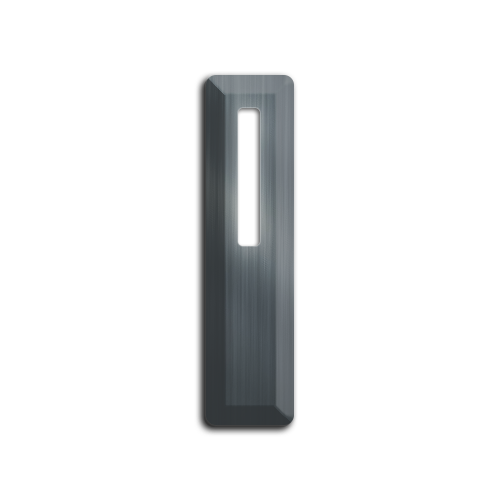
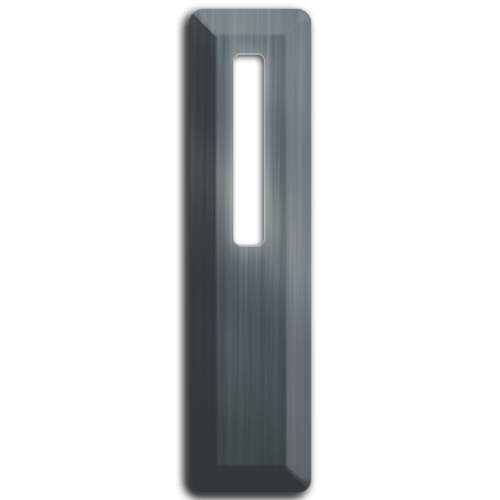
sliders UI

Changed region(s): [[0.33, 0.0, 0.63, 1.0]]

diff --git a/Equalizer/Source/PluginEditor.cpp b/Equalizer/Source/PluginEditor.cpp
@@ -9,7 +9,6 @@
 #include "PluginProcessor.h"
 #include "PluginEditor.h"
 #include "CustomLookAndFeel.h"
-#include "testLAF.h"
 
 //==============================================================================
 EqualizerAudioProcessorEditor::EqualizerAudioProcessorEditor (EqualizerAudioProcessor& p)
@@ -30,7 +29,6 @@ EqualizerAudioProcessorEditor::EqualizerAudioProcessorEditor (EqualizerAudioProc
     inputGainAtch =
         std::make_unique<juce::AudioProcessorValueTreeState::SliderAttachment>
         (audioProcessor.treeState, "input_gain", inputGainFader);
-    //Setting custom lookandfeel
     inputGainFader.setLookAndFeel(&customLookAndFeel);
 
 
@@ -46,7 +44,6 @@ EqualizerAudioProcessorEditor::EqualizerAudioProcessorEditor (EqualizerAudioProc
     outputGainAtch =
         std::make_unique<juce::AudioProcessorValueTreeState::SliderAttachment>
         (audioProcessor.treeState, "output_gain", outputGainFader);
-    //Setting custom lookandfeel
     outputGainFader.setLookAndFeel(&customLookAndFeel);
 
     /********************************************************
@@ -59,10 +56,10 @@ EqualizerAudioProcessorEditor::EqualizerAudioProcessorEditor (EqualizerAudioProc
     hipassFrequency.setTextBoxStyle(juce::Slider::TextEntryBoxPosition::NoTextBox, true, 0, 0);
     hipassFrequency.setRange(20, 20000, 1);
     hipassFrequency.setDoubleClickReturnValue(true, 20);
-    hipassFrequency.setLookAndFeel(&customLookAndFeel);
     hipassFrequencyAtch =
         std::make_unique<juce::AudioProcessorValueTreeState::SliderAttachment>
         (audioProcessor.treeState, "hipass_freq", hipassFrequency);
+    hipassFrequency.setLookAndFeel(&customLookAndFeel);
 
     /********************************************************
      *
@@ -73,7 +70,7 @@ EqualizerAudioProcessorEditor::EqualizerAudioProcessorEditor (EqualizerAudioProc
     lopassFrequency.setSliderStyle(juce::Slider::SliderStyle::RotaryVerticalDrag);
     lopassFrequency.setTextBoxStyle(juce::Slider::TextEntryBoxPosition::NoTextBox, true, 0, 0);
     lopassFrequency.setRange(20, 20000, 1);
-    lopassFrequency.setDoubleClickReturnValue(true, 20000.0);
+    lopassFrequency.setDoubleClickReturnValue(true, 20000);
     lopassFrequencyAtch =
         std::make_unique<juce::AudioProcessorValueTreeState::SliderAttachment>
         (audioProcessor.treeState, "lopass_freq", lopassFrequency);
@@ -84,26 +81,29 @@ EqualizerAudioProcessorEditor::EqualizerAudioProcessorEditor (EqualizerAudioProc
      *
      *   Adding and setting the SUB FREQUENCIES input slider
      *
-     ********************************************************
+     ********************************************************/
     addAndMakeVisible(subFrequency);
-    subFrequency.setSliderStyle(juce::Slider::SliderStyle::Rotary);
-    subFrequency.setRange(double(500), double(1000), double(10));
+    subFrequency.setSliderStyle(juce::Slider::SliderStyle::LinearVertical);
+    subFrequency.setTextBoxStyle(juce::Slider::TextEntryBoxPosition::NoTextBox, true, 0, 0);
+    subFrequency.setRange(30, 100, 20);
     subFrequency.setDoubleClickReturnValue(true, 30);
     subFrequencyAtch =
         std::make_unique<juce::AudioProcessorValueTreeState::SliderAttachment>
         (audioProcessor.treeState, "sub_freq", subFrequency);
+    //subFrequency.setLookAndFeel(&selectorLookAndFeel);
 
     addAndMakeVisible(subGain);
-    subGain.setSliderStyle(juce::Slider::SliderStyle::Rotary);
+    subGain.setSliderStyle(juce::Slider::SliderStyle::RotaryVerticalDrag);
+    subGain.setTextBoxStyle(juce::Slider::TextEntryBoxPosition::NoTextBox, true, 0, 0);
     subGain.setRange(-12, 12, 1);
     subGain.setDoubleClickReturnValue(true, 0);
     subGainAtch =
         std::make_unique<juce::AudioProcessorValueTreeState::SliderAttachment>
         (audioProcessor.treeState, "sub_gain", subGain);
-    */
+    subGain.setLookAndFeel(&customLookAndFeel);
 
     //Setting the window size
-    setSize (750 * 2, 450 * 2);
+    setSize(750 * 2, 450 * 2);
 }
 
 EqualizerAudioProcessorEditor::~EqualizerAudioProcessorEditor()
@@ -132,25 +132,18 @@ void EqualizerAudioProcessorEditor::paint (juce::Graphics& g)
 
 void EqualizerAudioProcessorEditor::resized()
 {
-    // This is generally where you'll want to lay out the positions of any
-    // subcomponents in your editor..
-
-    /*
-    POSIZIONI KNOBS
-    LOPASS 
-    
-    */;
-
     /* Dimensions variables */
     int knobWidth = 150;
     int knobHeight = 150;
     int filterKnobY = 600;
     int gainKnobY = 450;
     int spacingBKnobs = 250;
-    int lopasshipassY = 695;
-    int lopasshipassWidth = 135;
-    int lopassX = 900;
-    int hipassX = 80;
+    //lopass hipass
+    int lopasshipassY = 704;
+    int lopasshipassWidth = 109;
+    int lopassX = 910;
+    int hipassX = 90;
+    //volume faders
     int fadersWidth = 80;
     int fadersHeight = 362;
     int fadersImageOffset = 4;
@@ -158,28 +151,36 @@ void EqualizerAudioProcessorEditor::resized()
     int inputGainFaderX = 1230;
     int outputGainFaderX = 1370;
     int inoutGainFaderY = 490;
+    //knobs 
+    int lilKnobsDistance = 85;
+    //sub range
+    int subGainX = 244;
+    int subGainY = 495.5;
+    int subGainWidth = 68;
+    int subFrequencyX = 244;
+    int subFrequencyY = 623;
+    int subFrequencyWidth = 68;
 
     /* Input and output faders */
     inputGainFader.setBounds(inputGainFaderX - fadersWidth * fadersScaleFactor + fadersImageOffset, inoutGainFaderY, fadersWidth * 2, fadersHeight);
     outputGainFader.setBounds(outputGainFaderX - fadersWidth * fadersScaleFactor + fadersImageOffset, inoutGainFaderY, fadersWidth * 2, fadersHeight);
 
+    /* HiPass and LoPass filters */
     lopassFrequency.setBounds(lopassX, lopasshipassY, lopasshipassWidth, lopasshipassWidth);
     hipassFrequency.setBounds(hipassX, lopasshipassY, lopasshipassWidth, lopasshipassWidth);
 
     /* Sub frequency and gain knobs positions and dimensions */
-    subFrequency.setBounds(50, filterKnobY, knobWidth, knobHeight);
-    subGain.setBounds(50, gainKnobY, knobWidth, knobHeight);
+    subGain.setBounds(subGainX, subGainY, subGainWidth, subGainWidth);
+    subFrequency.setBounds(subFrequencyX, subFrequencyY, subFrequencyWidth, subFrequencyWidth);
 
-    /*Setting the others relative to the sub one */
+
+    /* Setting the others relative to the sub one */
     bassFrequency.setBounds(subFrequency.getBounds().getX() + spacingBKnobs, 
                             subFrequency.getBounds().getY(), 
                             knobWidth, 
                             knobHeight);
 
-    bassGain.setBounds(subGain.getBounds().getX() + spacingBKnobs, 
-                       subGain.getBounds().getY(), 
-                       knobWidth, 
-                       knobHeight);
+    bassGain.setBounds(subGainX, subGainY, subGainWidth, subGainWidth);
 
     midFrequency.setBounds(bassFrequency.getBounds().getX() + spacingBKnobs, 
                            bassFrequency.getBounds().getY(), 

diff --git a/Equalizer/Source/PluginProcessor.cpp b/Equalizer/Source/PluginProcessor.cpp
@@ -20,7 +20,9 @@ EqualizerAudioProcessor::EqualizerAudioProcessor()
                        .withOutput ("Output", juce::AudioChannelSet::stereo(), true)
                      #endif
                        ), treeState(*this, nullptr, "PARAMETERS", createParameterLayout()), 
-                          testFilter(juce::dsp::IIR::Coefficients<float>::makeLowPass(44100, 500, 0.1f))
+                          lopassFilter(juce::dsp::IIR::Coefficients<float>::makeLowPass(44100, 20000, 0.1f)),
+                          hipassFilter(juce::dsp::IIR::Coefficients<float>::makeHighPass(44100, 20, 0.1f))
+
 #endif
 {
 }
@@ -40,10 +42,10 @@ juce::AudioProcessorValueTreeState::ParameterLayout EqualizerAudioProcessor::cre
     auto pGainIn = std::make_unique<juce::AudioParameterFloat>("input_gain", "Input Gain", -24.0, 12.0, 0.0);
     auto pGainOut = std::make_unique<juce::AudioParameterFloat>("output_gain","Output Gain",-24.0, 12.0, 0.0);
 
-    auto pLoPassFreq = std::make_unique<juce::AudioParameterFloat>("lopass_freq", "LowPass Frequency", 20, 20000, 20000);
-    auto pHiPassFreq = std::make_unique<juce::AudioParameterFloat>("hipass_freq", "HiPass Frequency", 20, 20000, 20);
+    auto pLoPassFreq = std::make_unique<juce::AudioParameterFloat>("lopass_freq", "LowPass Frequency", juce::NormalisableRange<float>(20, 20000, 0.f, 0.25f), 20000);
+    auto pHiPassFreq = std::make_unique<juce::AudioParameterFloat>("hipass_freq", "HiPass Frequency", juce::NormalisableRange<float>(20, 20000, 0.f, 0.25f), 20);
 
-    auto pSubFreq = std::make_unique<juce::AudioParameterFloat>("sub_freq", "Sub Frequency", 30, 100, 0);
+    auto pSubFreq = std::make_unique<juce::AudioParameterFloat>("sub_freq", "Sub Frequency", 30, 100, 30);
     auto pSubGain = std::make_unique<juce::AudioParameterFloat>("sub_gain", "Sub Gain", -12, 12, 0);
 
     params.push_back(std::move(pGainIn));
@@ -131,9 +133,11 @@ void EqualizerAudioProcessor::prepareToPlay (double sampleRate, int samplesPerBl
     specs.maximumBlockSize = samplesPerBlock;
     specs.numChannels = getTotalNumOutputChannels();
 
-    //Setting the filter and cleaning the pending values
-    testFilter.prepare(specs);
-    testFilter.reset();
+    //Setting the filters and cleaning the pending values
+    lopassFilter.prepare(specs);
+    hipassFilter.prepare(specs);
+    lopassFilter.reset();
+    hipassFilter.reset();
 }
 
 void EqualizerAudioProcessor::releaseResources()
@@ -169,9 +173,12 @@ bool EqualizerAudioProcessor::isBusesLayoutSupported (const BusesLayout& layouts
 #endif
 
 void EqualizerAudioProcessor::updateFilter() {
-    *testFilter.state = *juce::dsp::IIR::Coefficients<float>::makeLowPass(lastSampleRate, 
+    *lopassFilter.state = *juce::dsp::IIR::Coefficients<float>::makeLowPass(lastSampleRate, 
                                                                          *treeState.getRawParameterValue("lopass_freq"), 
                                                                          0.1f);
+    *hipassFilter.state = *juce::dsp::IIR::Coefficients<float>::makeHighPass(lastSampleRate,
+                                                                          *treeState.getRawParameterValue("hipass_freq"),
+                                                                          0.1f);
 }
 
 void EqualizerAudioProcessor::processBlock (juce::AudioBuffer<float>& buffer, juce::MidiBuffer& midiMessages)
@@ -187,7 +194,8 @@ void EqualizerAudioProcessor::processBlock (juce::AudioBuffer<float>& buffer, ju
     //Creating the audio block to work with
     juce::dsp::AudioBlock<float> audioBlock(buffer);
     updateFilter();
-    testFilter.process(juce::dsp::ProcessContextReplacing<float>(audioBlock));
+    hipassFilter.process(juce::dsp::ProcessContextReplacing<float>(audioBlock));
+    lopassFilter.process(juce::dsp::ProcessContextReplacing<float>(audioBlock));
 
     // Retrieving VOLUME INPUT value from slider
     float inputGain = *treeState.getRawParameterValue("input_gain");
@@ -233,7 +241,7 @@ void EqualizerAudioProcessor::processBlock (juce::AudioBuffer<float>& buffer, ju
 
 
 
-    /*for (int channel = 0; channel < totalNumInputChannels; ++channel)
+    for (int channel = 0; channel < totalNumInputChannels; ++channel)
     {
         auto* channelData = buffer.getWritePointer (channel);
         for (int sample = 0; sample < buffer.getNumSamples(); ++sample) 
@@ -243,7 +251,7 @@ void EqualizerAudioProcessor::processBlock (juce::AudioBuffer<float>& buffer, ju
             channelData[sample] *= rawOutputGain;
 
         }
-    }*/
+    }
 }
 
 //==============================================================================

diff --git a/Equalizer/Source/SelectorLookAndFeel.cpp b/Equalizer/Source/SelectorLookAndFeel.cpp
@@ -1,0 +1,43 @@
+/*
+  ==============================================================================
+
+    SelectorLookAndFeel.cpp
+    Created: 12 Nov 2024 10:53:11pm
+    Author:  Dev
+
+  ==============================================================================
+*/
+
+#include <JuceHeader.h>
+#include "SelectorLookAndFeel.h"
+
+//==============================================================================
+SelectorLookAndFeel::SelectorLookAndFeel()
+{
+    selectorImage = juce::ImageCache::getFromMemory(BinaryData::KNOB_SELECTOR_png, BinaryData::KNOB_SELECTOR_pngSize);
+}
+
+SelectorLookAndFeel::~SelectorLookAndFeel()
+{
+}
+
+void SelectorLookAndFeel::drawRotarySlider(juce::Graphics& g, int x, int y, int width, int height,
+    float sliderPos, float rotaryStartAngle, float rotaryEndAngle,
+    juce::Slider& slider)
+{
+    const int imageWidth = selectorImage.getWidth();
+    const int imageHeight = selectorImage.getHeight();
+
+    auto radius = width * 0.5f;
+    auto centerX = x + width * 0.5f;
+    auto centerY = y + height * 0.5f;
+
+    float scaleX = static_cast<float>(width) / selectorImage.getWidth();
+    float scaleY = static_cast<float>(width) / selectorImage.getHeight();
+
+    auto angle = rotaryStartAngle + sliderPos * (rotaryEndAngle - rotaryStartAngle);
+
+    juce::AffineTransform transform = juce::AffineTransform::scale(scaleX, scaleY).rotated(angle, centerX, centerY);
+
+    g.drawImageTransformed(selectorImage, transform);
+}

diff --git a/Equalizer/Source/CustomLookAndFeel.cpp b/Equalizer/Source/CustomLookAndFeel.cpp
@@ -56,13 +56,25 @@ void CustomLookAndFeel::drawRotarySlider(juce::Graphics& g, int x, int y, int wi
     const int imageWidth = lhKnobImage.getWidth();
     const int imageHeight = lhKnobImage.getHeight();
 
-    g.drawImage(lhKnobImage, x, y, imageWidth, imageHeight, 0, 0, imageWidth, imageHeight);
+    auto radius = width * 0.5f;
+    auto centerX = x + width * 0.5f;
+    auto centerY = y + height * 0.5f;
+
+    float scaleX = static_cast<float>(width) / lhKnobImage.getWidth();
+    float scaleY = static_cast<float>(width) / lhKnobImage.getHeight();
+
+    auto angle = rotaryStartAngle + sliderPos * (rotaryEndAngle - rotaryStartAngle);
+
+    juce::AffineTransform transform = juce::AffineTransform::scale(scaleX, scaleY).rotated(angle, centerX, centerY);
+
+    g.drawImageTransformed(lhKnobImage, transform);
 }   
 
 void CustomLookAndFeel::drawLabel(juce::Graphics& g, juce::Label& label)
 {
+    g.setColour(juce::Colours::blue);
     /*
-    g.setColour(juce::Colour(juce::uint8(255), 255, 255, 1.0f));
+
     g.fillRoundedRectangle(label.getLocalBounds().toFloat(), 3.0f);
 
 

diff --git a/Equalizer/Source/SelectorLookAndFeel.h b/Equalizer/Source/SelectorLookAndFeel.h
@@ -1,0 +1,30 @@
+/*
+  ==============================================================================
+
+    SelectorLookAndFeel.h
+    Created: 12 Nov 2024 10:53:11pm
+    Author:  Dev
+
+  ==============================================================================
+*/
+
+#pragma once
+
+#include <JuceHeader.h>
+
+//==============================================================================
+/*
+*/
+class SelectorLookAndFeel  : public juce::LookAndFeel_V4
+{
+public:
+    SelectorLookAndFeel();
+    ~SelectorLookAndFeel() override;
+
+    void drawRotarySlider(juce::Graphics& g, int x, int y, int width, int height,
+        float sliderPos, float rotaryStartAngle, float rotaryEndAngle,
+        juce::Slider& slider) override;
+
+private:
+    juce::Image selectorImage;
+};

diff --git a/Equalizer/Source/PluginProcessor.h b/Equalizer/Source/PluginProcessor.h
@@ -62,7 +62,10 @@ private:
     
     // DSP Stuff ==================================================================
     juce::dsp::ProcessorDuplicator<juce::dsp::IIR::Filter<float>, 
-                                   juce::dsp::IIR::Coefficients<float>> testFilter;
+                                   juce::dsp::IIR::Coefficients<float>> lopassFilter;
+
+    juce::dsp::ProcessorDuplicator<juce::dsp::IIR::Filter<float>,
+                                   juce::dsp::IIR::Coefficients<float>> hipassFilter;
 
     // Parameters =================================================================
     juce::AudioProcessorValueTreeState::ParameterLayout createParameterLayout();

diff --git a/Equalizer/Source/PluginEditor.h b/Equalizer/Source/PluginEditor.h
@@ -11,8 +11,7 @@
 #include <JuceHeader.h>
 #include "PluginProcessor.h"
 #include "CustomLookAndFeel.h"
-#include "testLAF.h"
-
+#include "SelectorLookAndFeel.h"
 
 //==============================================================================
 /**
@@ -30,6 +29,7 @@ public:
 private:
     //Customizable style class
     CustomLookAndFeel customLookAndFeel;
+    SelectorLookAndFeel selectorLookAndFeel;
 
     // Background image variable
     juce::Image bgImage;
@@ -58,6 +58,7 @@ private:
     juce::Slider highGain;
 
     juce::Slider lopassFrequency;
+    juce::Label lopassFrequencyLabel;
     //juce::Button lopassActive;
     
     juce::Slider hipassFrequency;
